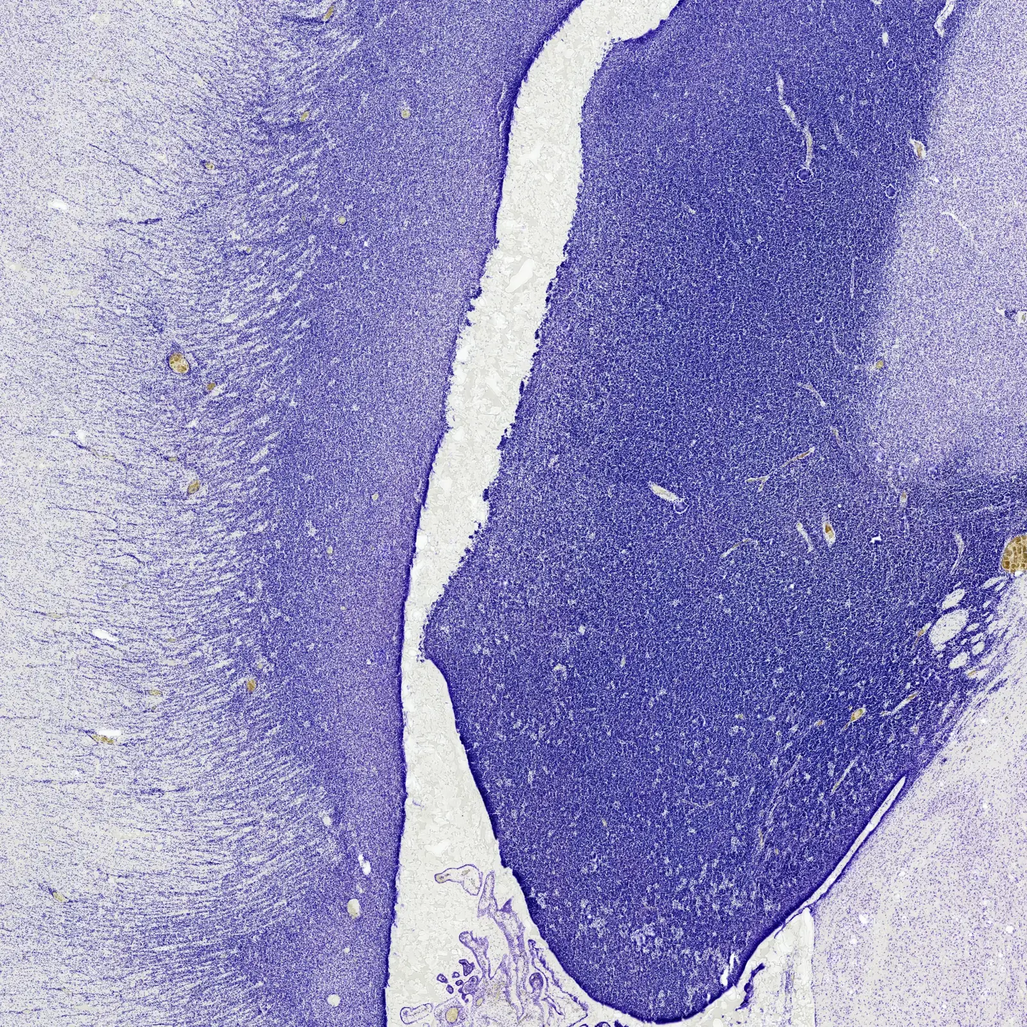
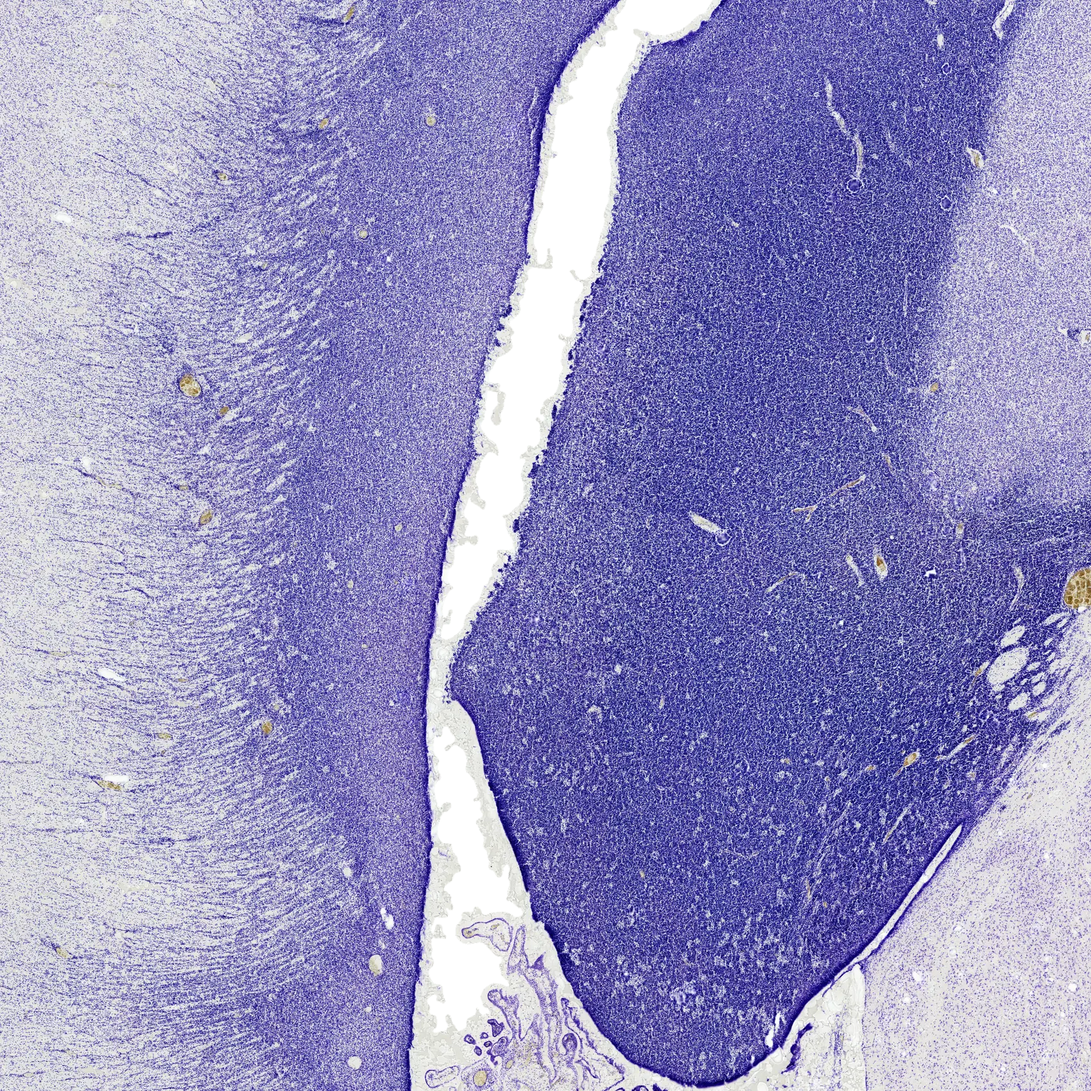
One left edge for every block, shifted 100 px left; tissue-only Nissl zoom
Projects, Publications, Contact and the footer now share the left edge of the hero
and the research chapters, and the whole column sits 100 px left of centre (the
--shift variable; ?shift=0 in the URL previews the centred version). The Nissl zoom
of the 24-week brain draws only tissue: the glass is transparent in the images, the
panel has no box at first, and its frame fades in as the view zooms into the
ganglionic eminence. The scale bar follows the page text colour.

Changed region(s): [[0.0625, 0.0, 1.0, 1.0], [0.7812, 0.8125, 0.8125, 0.8438]]

diff --git a/assets/style.css b/assets/style.css
@@ -175,9 +175,17 @@ a.card:hover { border-color: var(--accent); transform: translateY(-2px); text-de
 
 /* Hero: text on a plate on the left, the brain on the right.  The hero, About and the research intro
    share the left edge of the research chapters (the 1240 px column below). */
-.hero.wrap { max-width: 1240px; width: 100%; margin: 0 auto; padding-left: 20px; padding-right: 20px; }
-.wrap.wide { max-width: 1240px; }
-#about.about { width: min(860px, calc(100% - 40px)); margin-left: max(20px, calc((100% - 1240px) / 2 + 20px)); margin-right: auto; }
+/* --shift moves the whole 1240 px column left of centre (try ?shift=0 in the URL to compare) */
+:root { --shift: 100px; }
+.hero.wrap, .wrap.wide, .chapter.wrap, .zoom-block.wrap, .scrub-block.wrap, .cyto-figs.wrap {
+  max-width: 1240px; width: 100%;
+  margin-left: max(0px, calc((100% - 1240px) / 2 - var(--shift))); margin-right: auto;
+}
+.hero.wrap { padding-left: 20px; padding-right: 20px; margin-top: 0; margin-bottom: 0; }
+#about.about, #projects, #publications, #contact, .footer.wrap {
+  width: min(920px, calc(100% - 40px));
+  margin-left: max(20px, calc((100% - 1240px) / 2 - var(--shift) + 20px)); margin-right: auto;
+}
 .hero {
   background: transparent; border: 0; backdrop-filter: none; -webkit-backdrop-filter: none;
   display: block; position: relative; min-height: calc(100vh - 90px);
@@ -204,7 +212,6 @@ a.card:hover { border-color: var(--accent); transform: translateY(-2px); text-de
 .about h2 { margin-top: 0; }
 
 /* Research story: wider than the reading column so figures have room */
-.chapter.wrap, .zoom-block.wrap, .scrub-block.wrap, .cyto-figs.wrap { max-width: 1240px; }
 .research { padding-top: 20px; }
 .research-intro { max-width: 640px; margin-left: 0 !important; }
 .research-intro .pun { font-size: clamp(2.1rem, 5.2vw, 3.3rem); margin: 0 0 14px; line-height: 1.08; }
@@ -255,8 +262,14 @@ a.card:hover { border-color: var(--accent); transform: translateY(-2px); text-de
   font-size: .8rem; color: #fff; text-shadow: 0 0 4px #000; pointer-events: none;
 }
 .scalebar i { display: block; height: 3px; background: #fff; box-shadow: 0 0 3px #000; border-radius: 2px; }
-.zoomer:not(.dark) .scalebar { color: #24190f; text-shadow: 0 0 4px #fff; }
-.zoomer:not(.dark) .scalebar i { background: #24190f; box-shadow: 0 0 3px #fff; }
+.zoomer:not(.dark) .scalebar { color: var(--text); text-shadow: 0 0 4px var(--bg); }
+.zoomer:not(.dark) .scalebar i { background: var(--text); box-shadow: 0 0 3px var(--bg); }
+/* tissue-only zoom: no box at first, the frame appears as it zooms in (--frame set by story.js) */
+.zoomer:not(.dark) canvas {
+  background: color-mix(in srgb, var(--surface) calc(var(--frame, 0) * 100%), transparent);
+  border-color: color-mix(in srgb, var(--line) calc(var(--frame, 0) * 100%), transparent);
+  box-shadow: 0 10px 30px color-mix(in srgb, #000 calc(var(--frame, 0) * 8%), transparent);
+}
 
 /* Figures */
 .figure { margin: 0; }
@@ -299,3 +312,5 @@ a.card:hover { border-color: var(--accent); transform: translateY(-2px); text-de
   .zoom-block { height: 240vh; }
   .zoomer, .scrubber { top: 66px; height: calc(100vh - 80px); }
 }
+.wrap.wide > .section { margin-left: 0; margin-right: auto; width: 100%; }
+.wrap.wide > .section.also { max-width: 920px; }

diff --git a/index.html b/index.html
@@ -142,7 +142,7 @@
         </figure>
       </div>
 
-      <div class="wrap">
+      <div class="wrap wide">
         <figure class="figure ge3d section" data-scene='{"fade":0}'>
           <img src="assets/img/ge/ge_rotate.webp" alt="Rotating 3D reconstruction of the ganglionic eminence inside a translucent fetal brain" loading="lazy" width="720" height="720">
           <figcaption>
@@ -228,7 +228,7 @@
         </div>
       </div>
 
-      <div class="wrap">
+      <div class="wrap wide">
         <div class="section also">
           <h3>Also</h3>
           <div class="grid two">
@@ -326,7 +326,12 @@
       downsampled for the web. Immunostained and myelin images are from unpublished work and are shown without marker names.
     </p>
   </footer>
-  <script>document.getElementById('year').textContent = new Date().getFullYear();</script>
+  <script>
+    document.getElementById('year').textContent = new Date().getFullYear();
+    // preview helper: ?shift=0 (or any px) overrides how far the column sits left of centre
+    const shift = new URLSearchParams(location.search).get('shift');
+    if (shift !== null && !isNaN(+shift)) document.documentElement.style.setProperty('--shift', (+shift) + 'px');
+  </script>
   <!-- Animated neuronal network background (creates its own canvas) -->
   <script src="assets/neuro.js"></script>
   <script src="assets/js/brainvol.js"></script>

diff --git a/assets/js/story.js b/assets/js/story.js
@@ -68,8 +68,10 @@
       const vh = vw * H / W;
       const s = W / vw;                               // canvas px per unit
       const x0 = cx - vw / 2, y0 = cy - vh / 2;
-      ctx.fillStyle = fig.classList.contains('dark') ? '#000' : '#fff';
-      ctx.fillRect(0, 0, W, H);
+      if (fig.classList.contains('dark')) { ctx.fillStyle = '#000'; ctx.fillRect(0, 0, W, H); }
+      else ctx.clearRect(0, 0, W, H);                // tissue only: the glass is transparent in the images
+      // the frame around the view fades in as the zoom starts, so the zoomed view reads as a window
+      fig.style.setProperty('--frame', smooth(0.15, 0.45, p).toFixed(3));
       ctx.imageSmoothingQuality = 'high';
       for (const l of levels) {
         if (!l.img) continue;

diff --git a/tools/media_nissl_alpha.py b/tools/media_nissl_alpha.py
@@ -1,0 +1,50 @@
+"""Nissl zoom levels of the 24 GW brain (DHARANI FB85, SE 1138) with the glass made transparent, so only tissue
+is drawn.  The tissue mask comes from each level's own image blurred to the same physical scale (~20 um), so the
+outline agrees from the whole section down to single cells."""
+import os, sys, json, subprocess, tempfile
+os.environ.setdefault("OMP_NUM_THREADS", "8")
+import numpy as np
+from PIL import Image
+from scipy import ndimage as ndi
+from skimage import morphology, segmentation
+Image.MAX_IMAGE_PIXELS = None
+SITE = sys.argv[1]
+OPJ = "/home/users/jignesh/miniconda3/envs/nisslprop/bin/opj_decompress"
+J85 = "/home/users/jignesh/analytics/244/NISL/B_244_FB85-SL_380-ST_NISL-SE_1138_compressed.jp2"
+W85, H85 = 144472, 129351
+UM = 0.5                      # level-0 pixel size, um
+cx, cy = 36100, 54300
+TMP = tempfile.mkdtemp(dir=os.path.dirname(os.path.abspath(__file__)))
+THR = float(os.environ.get("THR", 0.055))    # optical density after blurring: glass ~0.025 (p95 0.05), pale white matter >= 0.067
+
+def jp2(r, box):
+    out = os.path.join(TMP, "c.png")
+    subprocess.run([OPJ, "-i", J85, "-o", out, "-r", str(r), "-d", ",".join(map(str, box)), "-threads", "8"],
+                   check=True, stdout=subprocess.DEVNULL, stderr=subprocess.DEVNULL)
+    return Image.open(out).convert("RGB")
+
+boxes = [("nissl_section", 5, (0, 0, W85, H85), 2400),
+         ("nissl_ge", 3, (cx - 10000, cy - 10000, cx + 10000, cy + 10000), 1700),
+         ("nissl_ge_mid", 1, (cx - 3000, cy - 3000, cx + 3000, cy + 3000), 1600),
+         ("nissl_cells", 0, (cx - 800, cy - 800, cx + 800, cy + 800), 1600)]
+levels = []
+for name, r, box, size in boxes:
+    im = jp2(r, box)
+    im.thumbnail((size, size), Image.Resampling.LANCZOS)
+    a = np.asarray(im).astype(np.float32)
+    um_px = (box[2] - box[0]) * UM / im.width
+    od = -np.log10(np.clip(a.min(-1), 1, 255) / 255.0)              # darkest channel: violet stain
+    od = ndi.gaussian_filter(od, max(1.0, 30.0 / um_px))
+    m = od > THR
+    m = morphology.remove_small_objects(m, max_size=max(4, int(0.2e6 / um_px ** 2)))     # debris < 0.2 mm2
+    if r == 5:                                 # whole section: the slide edge is not tissue
+        m = segmentation.clear_border(m)
+    m = morphology.remove_small_holes(m, max_size=max(4, int(0.5e6 / um_px ** 2)))       # pale gaps < 0.5 mm2; ventricles stay open
+    alpha = ndi.gaussian_filter(m.astype(np.float32), max(0.7, 4.0 / um_px))        # soft ~4 um edge
+    rgba = np.dstack([a, np.clip(alpha, 0, 1) * 255]).astype(np.uint8)
+    path = f"{SITE}/assets/img/ge/{name}.webp"
+    Image.fromarray(rgba, "RGBA").save(path, quality=74, alpha_quality=60, method=6)
+    print(name, im.size, f"{um_px:.2f} um/px", f"tissue {m.mean():.2f}", os.path.getsize(path) // 1024, "KB", flush=True)
+    levels.append(dict(src=f"assets/img/ge/{name}.webp", rect=[box[0] / W85, box[1] / H85, box[2] / W85, box[3] / H85],
+                       px=[im.width, im.height]))
+json.dump(dict(aspect=W85 / H85, levels=levels), open(f"{SITE}/assets/img/ge/nissl_zoom.json", "w"), indent=1)
